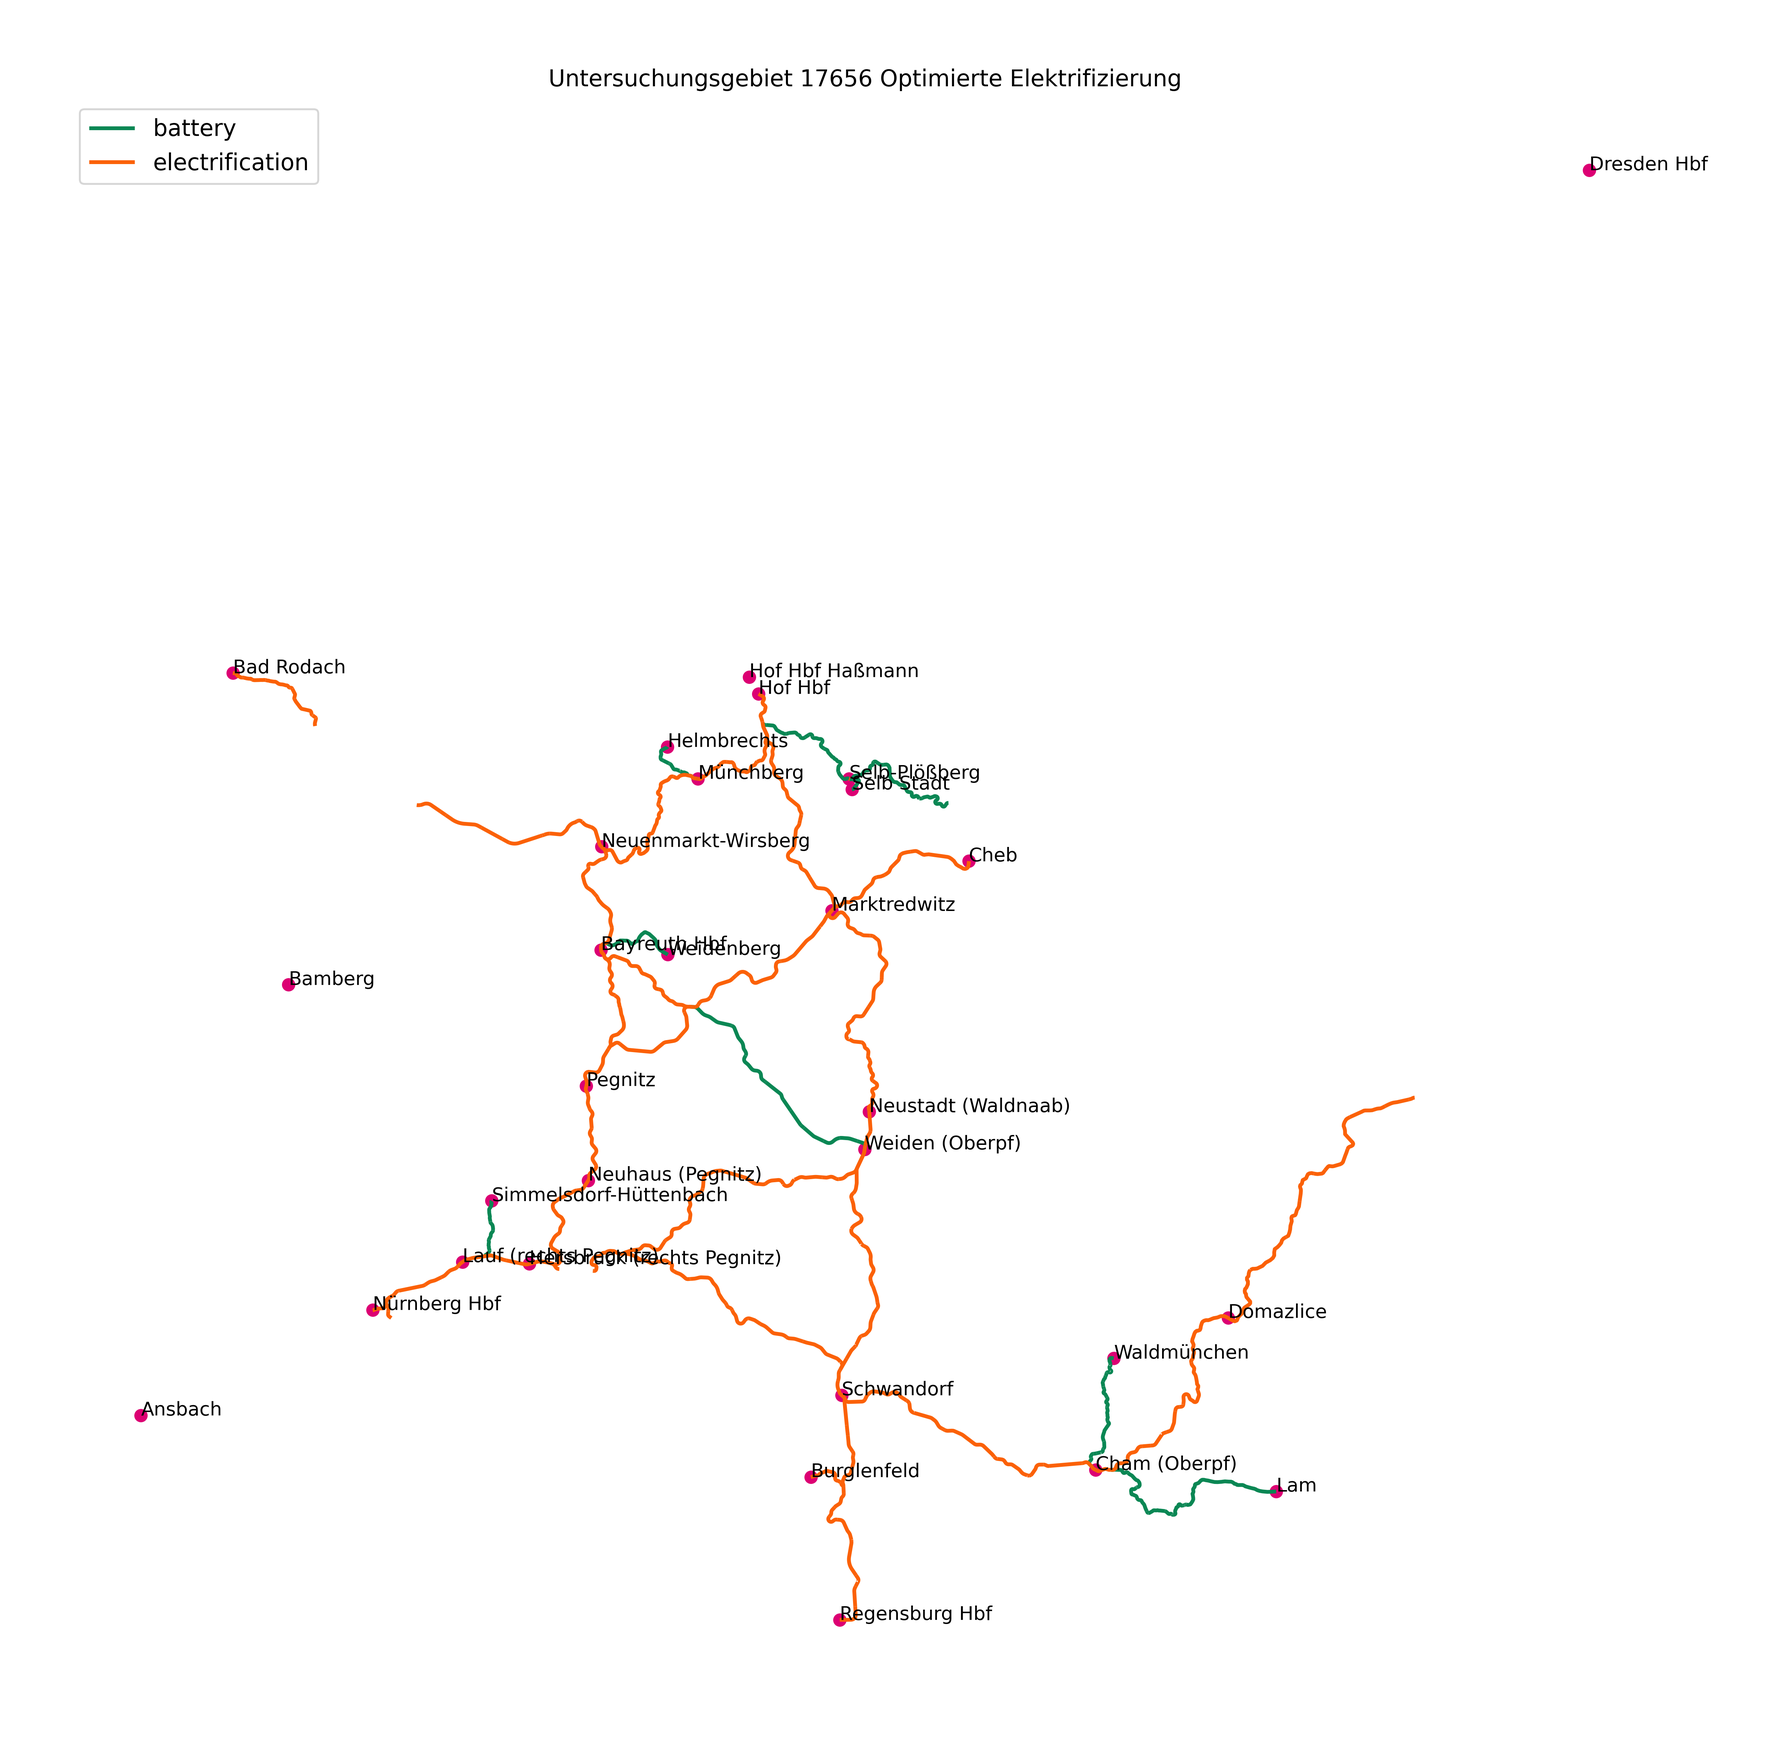
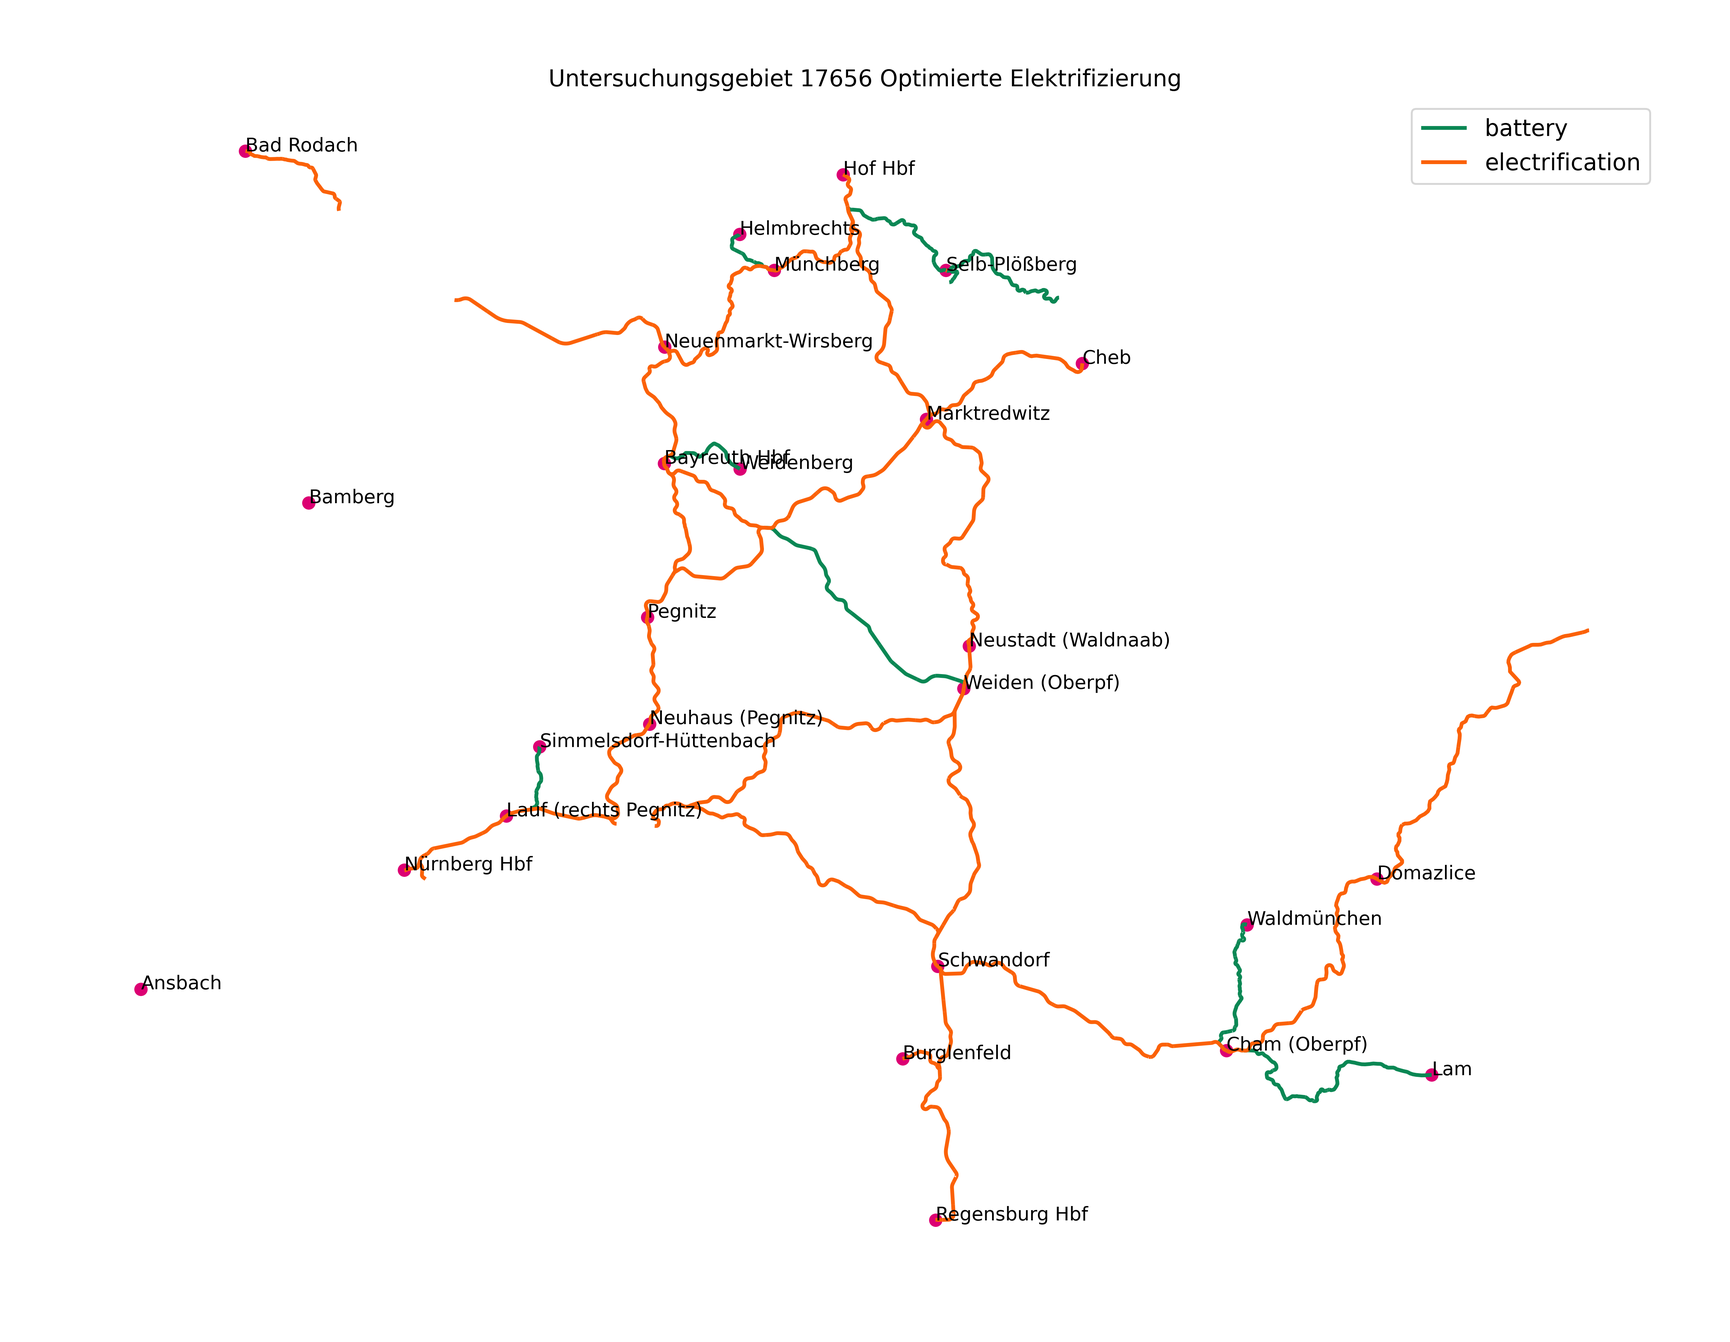
prioritization of master_areas

diff --git a/prosd/graph/block_rw_lines.py b/prosd/graph/block_rw_lines.py
@@ -8,6 +8,7 @@ from prosd import db
 from prosd import parameter
 from prosd.calculation_methods.base import BaseCalculation
 
+
 class BlockRailwayLines:
     def __init__(self, scenario_id, reference_scenario_id):
         self.scenario = MasterScenario.query.get(scenario_id)
@@ -97,6 +98,8 @@ class BlockRailwayLines:
         tgs_ids = [tg.id for tg in tgs]
         self._save_additional_project_info(pc=pc, additional_ignore_ocp=additional_ignore_ocp, traingroups_to_reroute=tgs_ids, following_ocps=following_ocps)
 
+        return pc
+
     def delete_blocking_project(self, pc_id):
         infra_version = version.Version(scenario=self.scenario)
         route = routing.GraphRoute(graph=self.graph, infra_version=infra_version)
@@ -139,6 +142,7 @@ class BlockRailwayLines:
         train_provision_cost = 0
         areas_resilience_scenario = set()
         areas_reference_scenario = set()
+        areas_traingroups_without_sgv = dict()
         for tg in traingroups:
             road_cost += tg.calc_cost_road_transport()
             wagon_cost += tg.wagon_cost_per_day(scenario_id=self.scenario.id)
@@ -148,6 +152,7 @@ class BlockRailwayLines:
             areas_resilience_scenario.update(areas["resilience_scenario"])
             areas_reference_scenario.update(areas["reference_scenario"])
             for area in areas["resilience_scenario"]:
+                areas_traingroups_without_sgv[area.id] = area.traingroups.copy()
                 if tg not in area.traingroups:
                     area.traingroups.append(tg)
 
@@ -226,11 +231,19 @@ class BlockRailwayLines:
 
         cost_road_case = area_cost_reference + road_cost_sum
 
-        if cost_resilience <= cost_road_case:
-            print('Resilience wins')
-            return areas_resilience_scenario, road_cost, operating_cost_traingroups_sgv*disturbance_time_proportion
-        else:
-            return areas_reference_scenario, road_cost, operating_cost_traingroups_sgv*disturbance_time_proportion
+        answer = {}
+
+        answer["road_cost_day"] = road_cost
+        answer["road_coast_operation_duration"] = road_cost_sum
+        answer["operating_cost_sgv_resilience_day"] = traincost_sgv_day
+        answer["operating_cost_sgv_resilience_sum"] = operating_cost_sgv_resilience_sum
+        answer["cost_road_case"] = cost_road_case
+        answer["cost_resilience"] = cost_resilience
+
+        for area in areas["resilience_scenario"]:
+            area.traingroups = areas_traingroups_without_sgv[area.id]
+
+        return answer
 
     def get_areas_for_tg(self, tg):
         """
@@ -252,7 +265,6 @@ class BlockRailwayLines:
         ).all()
 
         return areas
-
 
     def reroute_traingroups(self):
         infra_version = version.Version(scenario=self.scenario)
@@ -291,7 +303,6 @@ class BlockRailwayLines:
                 ignore_ocps=set(blocked_ocps),
                 following_ocps=following_ocps
             )
-
 
     def reroute_traingroups_without_blocked_lines(self):
         infra_version = version.Version(scenario=self.scenario)

diff --git a/prosd/parameter.py b/prosd/parameter.py
@@ -37,10 +37,10 @@ CO2_COST = 670
 FACTOR_PLANNING = 0.18
 MAINTENANCE_FACTOR = 0.014  # electrification
 MAINTENANCE_FACTOR_FILLING_STATION = 0.03
-# COST_OVERHEAD_ONE_TRACK = 1141  # Tausend Euro pro Kilometer
-# COST_OVERHEAD_TWO_TRACKS = 2282  # Tausend Euro pro Kilometer
+COST_OVERHEAD_ONE_TRACK = 1141  # Tausend Euro pro Kilometer
+COST_OVERHEAD_TWO_TRACKS = 2282  # Tausend Euro pro Kilometer
 COST_CATENARY = 737  # Tausend Euro pro Kilometer
-COST_TRACTION_POWER_SUPPLY = 200 # Tausend Euro pro Kilometer
+COST_TRACTION_POWER_SUPPLY = 200  # Tausend Euro pro Kilometer
 COST_CIVIL_ENGINEERING_CONSTRUCTION = 200  # Tausend Euro pro Kilometer
 COST_LAND_AQUISITOIN = 5  # Tausend Euro pro Kilometer
 LIFETIME_CATENARY = 60  # Jahre
@@ -50,7 +50,7 @@ COST_SMALL_CHARGING_STATION = 1200  # Tausend Euro
 ENERGY_COST_ELECTRO_CASUAL = 0.12
 ENERGY_COST_ELECTRO_RENEWABLE = 0.14
 ENERGY_COST_DIESEL = 0.75
-ENERGY_COST_EFUEL = 2.5
+ENERGY_COST_EFUEL = 1
 ENERGY_COST_H2 = 5
 
 ENERGY_CO2_ELECTRO_CASUAL = 414
@@ -79,11 +79,11 @@ DURATION_PLANNING = 5
 DURATION_BUILDING = 5
 DURATION_OPERATION = 30
 
-### cost road transport 40t Lkw
+### cost road transport
 ROAD_ENERGY_ELECTRO_RENWEABLE_COST = 17.5  # €/100km
 ROAD_PERSONAL_COST = 25.18  # €/100km angenommene Reisegeschwindigkeit 80 km/h
-ROAD_CAPITAL_COST = 11.73  # €/100km
-ROAD_MAINTENANCE_COST = 25.72  # €/100km
+ROAD_CAPITAL_COST = 22  # €/100km
+ROAD_MAINTENANCE_COST = 21, 86  # €/100km
 ROAD_CO2_ELECTRO_RENEWABLE_COST = 1.8  # €/100km
 ROAD_PRIMARY_ENERGIE_ELECTRO_RENEWABLE_COST = 7.8  # €/100km
 ROAD_EMISSION_ELECTRO_RENEWABLE_COST = 0.1  # €/100km nur Energiebereitstellung, keine Emissionen durch Radabrieb etc
@@ -92,12 +92,12 @@ PAYLOAD_TRUCK = 25  # t Nutzlast für Lkw. Damit angenommen: Zusätzliches Gewic
 ### wagon cargo rail
 LENGTH_CONTAINER_WAGON = 19.7  # m
 DEAD_WEIGHT_CONTAINER_WAGON = 20  # t
-PAYLOAD_CONTAINER_WAGON = 70 # t
+PAYLOAD_CONTAINER_WAGON = 70  # t
 AVERAGE_SPEED_RESILIENCE = 60  # km/h für Ausweichrouten
 COST_CONTAINER_WAGON = 1.06  # € pro Wagen-h
 COST_TRAIN_DRIVER = 57  # € pro Stunde
 TRAIN_PROVISION_COST_PER_WAGGON = 23  # € pro Wagen
 DISTURBANCE_PERCENTAGE = 0.0463  # proportion of time where infrastructure is disturbed
-#
+
 ##
 CHARGE = 1200  # kWh

diff --git a/scripts/masterarbeit/auswertung/single_master_area/map_optimiesd_electrification_master_area.py b/scripts/masterarbeit/auswertung/single_master_area/map_optimiesd_electrification_master_area.py
@@ -40,7 +40,7 @@ def german_cities(station_id_list):
     return stations_df
 
 
-def plot_optimised_electrification(area, filepath_image_directory, station_list):
+def plot_optimised_electrification(area, filepath_image_directory, station_ignore_list):
     filepath = filepath_image_directory + f"map_{area.id}_optimised_electrification.png"
     linestrings = dict()
 
@@ -50,6 +50,8 @@ def plot_optimised_electrification(area, filepath_image_directory, station_list)
         if tg.category.transport_mode == 'spnv':
             station_list.add(tg.first_ocp.ocp.station.db_kuerzel)
             station_list.add(tg.last_ocp.ocp.station.db_kuerzel)
+
+    station_list = station_list - station_ignore_list
 
     for sub_area in area.sub_master_areas:
         traction = sub_area.cost_effective_traction
@@ -88,7 +90,7 @@ def plot_optimised_electrification(area, filepath_image_directory, station_list)
     for idx, row in german_cities_df.iterrows():
         plt.annotate(text=row["name"], xy=(row.geometry.x, row.geometry.y))
 
-    ax.legend(loc='upper left', prop={'size': 12})
+    ax.legend(loc='upper right', prop={'size': 12})
     ax.set(title=f'Untersuchungsgebiet {area.id} Optimierte Elektrifizierung')
     ax.set_axis_off()
     # plt.show()
@@ -102,27 +104,17 @@ def plot_optimised_electrification(area, filepath_image_directory, station_list)
 
 if __name__ == '__main__':
     filepath_image_directory = '../../../../example_data/report_scenarios/maps_optimised_electrification/'
-    area_id = 17656
+    area_id = 17760
     area = MasterArea.query.get(area_id)
-    station_list = [
-        "MMF",
-        "MSB",
-        "MRO",
-        "NPA",
-        "MLA",
-        "MXS",
-        "MBUH",
-        "MFL",
-        "MWSB",
-        "MEG",
-        "MTS",
-        "MGA",
-        "MTRT",
-        "MNR"
-    ]
+    station_ignore_list = {
+        "NHR",
+        "NHAN",
+        "NSS",
+        "DH"
+    }
 
     plot_optimised_electrification(
         area=area,
         filepath_image_directory=filepath_image_directory,
-        station_list=station_list
+        station_ignore_list=station_ignore_list
     )

diff --git a/scripts/masterarbeit/auswertung/master_area_sgv/plot_maps_report_master_areas.py b/scripts/masterarbeit/auswertung/master_area_sgv/plot_maps_report_master_areas.py
@@ -15,8 +15,8 @@ def get_cmap(n, name='hsv'):
     return plt.cm.get_cmap(name, n)
 
 
-def plot_areas(areas, filepath_image_directory, scenario_name, area_numbers):
-    filepath = filepath_image_directory + "master_areas_sgv.png"
+def plot_areas(areas, filepath_image_directory, title_plot, area_numbers, filename):
+    filepath = filepath_image_directory + filename
     linestrings = dict()
 
     for index_area, area in enumerate(areas):
@@ -60,7 +60,7 @@ def plot_areas(areas, filepath_image_directory, scenario_name, area_numbers):
     german_border_df = german_border()
     german_border_df.plot(ax=ax, color='#BFC0C0', alpha=0.2)
     ax.legend(loc='upper left', prop={'size': 12})
-    ax.set(title=f'Untersuchungsgebiete SGV {scenario_name}')
+    ax.set(title=title_plot)
     ax.set_axis_off()
     # plt.show()
     plt.savefig(
@@ -70,3 +70,22 @@ def plot_areas(areas, filepath_image_directory, scenario_name, area_numbers):
         dpi=400
     )
 
+
+if __name__ == '__main__':
+    scenario_id = 1
+    categories = ['spfv']
+    areas = MasterArea.query.join(traingroups_to_masterareas).join(TimetableTrainGroup).join(TimetableTrain).join(
+        TimetableTrainPart).join(TimetableCategory).filter(
+        MasterArea.scenario_id == scenario_id,
+        MasterArea.superior_master_id == None,
+        TimetableCategory.transport_mode.in_(categories)
+    ).all()
+    filepath_image_directory = '../../../../example_data/report_scenarios/common_maps/'
+    area_numbers = {area.id:index for index, area in enumerate(areas)}
+    plot_areas(
+        areas=areas,
+        filepath_image_directory=filepath_image_directory,
+        title_plot=f'Untersuchungsgebiete SPFV Szenario 1',
+        filename='master_areas_spfv.png',
+        area_numbers=area_numbers
+    )

diff --git a/scripts/masterarbeit/auswertung/master_area_sgv/compare_cost_infra_operating.py b/scripts/masterarbeit/auswertung/master_area_sgv/compare_cost_infra_operating.py
@@ -1,0 +1,25 @@
+from prosd.models import MasterArea, TimetableTrainGroup, TimetableTrain, TimetableTrainPart, TimetableCategory, traingroups_to_masterareas, MasterScenario
+import pandas
+
+scenario_id = 1
+filepath = f'../../../../example_data/report_scenarios/s_{scenario_id}/proportion_operating_to_infrastructure_cost.tex'
+scenario = MasterScenario.query.get(scenario_id)
+categories = ['sgv']
+areas = MasterArea.query.join(traingroups_to_masterareas).join(TimetableTrainGroup).join(TimetableTrain).join(TimetableTrainPart).join(TimetableCategory).filter(
+        MasterArea.scenario_id == scenario.id,
+        MasterArea.superior_master_id == None,
+        TimetableCategory.transport_mode.in_(categories)
+    ).all()
+
+area_numbers = {area.id:index for index, area in enumerate(areas)}
+
+prioritization= {}
+for area in areas:
+    prioritization[area_numbers[area.id]] = {}
+    prioritization[area_numbers[area.id]]["area_number"] = area_numbers[area.id]
+    prioritization[area_numbers[area.id]]["operating_cost"] = area.operating_cost_all_tractions[area.cost_effective_traction]
+    prioritization[area_numbers[area.id]]["infrastructure_cost"] = area.infrastructure_cost_all_tractions[area.cost_effective_traction]
+    prioritization[area_numbers[area.id]]["proportion"] = area.infrastructure_cost_all_tractions[area.cost_effective_traction]/area.operating_cost_all_tractions[area.cost_effective_traction]
+
+df = pandas.DataFrame.from_dict(prioritization)
+df.to_latex(filepath, index=False)

diff --git a/example_data/report_scenarios/s_1/proportion_operating_to_infrastructure_cost.tex b/example_data/report_scenarios/s_1/proportion_operating_to_infrastructure_cost.tex
@@ -1,0 +1,10 @@
+\begin{tabular}{rrrrrrrrrrrrrrrr}
+\toprule
+          0  &           1  &           2  &           3  &            4  &            5  &           6  &            7  &           8  &           9  &          10 &            11 &            12 &            13 &            14 &            15 \\
+\midrule
+    0.000000 & 1.000000e+00 &     2.000000 &     3.000000 &      4.000000 &      5.000000 & 6.000000e+00 &      7.000000 & 8.000000e+00 & 9.000000e+00 &   10.000000 &     11.000000 &     12.000000 &     13.000000 &     14.000000 &     15.000000 \\
+96562.811928 & 1.625608e+06 & 85423.112902 & 36719.748641 & 195207.284784 & 864226.852217 & 3.363270e+06 & 625248.426815 & 3.021728e+06 & 2.271655e+06 & 9864.447286 & 486095.957500 & 287437.991535 & 639276.195959 & 570206.311257 & 430509.984582 \\
+ 5558.632866 & 5.892337e+05 & 17282.089019 &  6587.308488 &  95729.266221 & 150078.263310 & 5.814121e+05 & 199910.741448 & 1.208939e+06 & 2.869760e+05 & 1739.383713 & 103008.441303 &  27020.694369 &  95180.242870 &  15154.987931 &  38328.631953 \\
+    0.057565 & 3.624696e-01 &     0.202312 &     0.179394 &      0.490398 &      0.173656 & 1.728711e-01 &      0.319730 & 4.000822e-01 & 1.263291e-01 &    0.176329 &      0.211910 &      0.094005 &      0.148888 &      0.026578 &      0.089031 \\
+\bottomrule
+\end{tabular}

diff --git a/tests/test_graph/test_block_railwaylines.py b/tests/test_graph/test_block_railwaylines.py
@@ -11,13 +11,13 @@ traingroup_id = "tg_677_x0020_G_x0020_2501_112538"
 class TestBlockRailwayLines(BaseTestCase):
     def test_create_project(self):
         from_ocp = 'RSD'
-        to_ocp = 'RGE'
-        stations_via = []
-        additional_ignore_ocp = ["RGE", "YRRHH", "RRHH", "RPB", "RGN"]
+        to_ocp = 'SKL'
+        stations_via = ["RNBO", "SKL", "SHO"]
+        additional_ignore_ocp = ["RLSM", "RL", "RLUM", "RLUR", "RLI", "RSD", "SKL", "SHO"]
         reroute_train_categories = ['sgv']
-        project_content_name = "Sperrung Schifferstedt – Germersheim"
+        project_content_name = "Sperrung Ludwigshafen – Neunkirchen"
         following_ocps = {
-            "RSD": ["RN", "RLA", "RWND"]
+            "RM": ["FWOR", "FMWG", "FGAL", "SNBR"]
         }
 
         block_rw_lines = BlockRailwayLines(scenario_id=scenario_id, reference_scenario_id=reference_scenario_id)
@@ -45,7 +45,7 @@ class TestBlockRailwayLines(BaseTestCase):
         block_rw_lines.reroute_traingroups_without_blocked_lines()
 
     def test_delete_blocking_project(self):
-        pc_id = 55497
+        pc_id = 72637
         block_rw_lines = BlockRailwayLines(scenario_id=scenario_id, reference_scenario_id=reference_scenario_id)
         block_rw_lines.delete_blocking_project(pc_id=pc_id)
 

diff --git a/scripts/masterarbeit/auswertung/single_master_area/plot_operating_costs.py b/scripts/masterarbeit/auswertung/single_master_area/plot_operating_costs.py
@@ -2,8 +2,8 @@ import matplotlib.pyplot as plt
 import numpy as np
 from prosd.models import MasterArea
 
-master_area_id = 17096
-transport_mode = 'spnv'
+master_area_id = 17656
+transport_mode = 'spfv'
 operating_cost = MasterArea.query.get(master_area_id).get_operating_cost_categories_by_transport_mode
 filepath = f"../../../../example_data/report_scenarios/operating_cost/{master_area_id}_transportmode_{transport_mode}"
 
@@ -33,8 +33,8 @@ for key, value in operating_cost_categorie_values.items():
 
 box = ax.get_position()
 fig.autofmt_xdate(rotation=45)
-ax.set_title(f"Zusammensetzung Betriebskosten für Untersuchungsgebiet {master_area_id}")
-ax.legend(loc="upper center")
+ax.set_title(f"Zusammensetzung Betriebskosten für Untersuchungsgebiet {master_area_id} {transport_mode}")
+ax.legend(loc="upper right")
 ax.set(ylabel='Tsd. € pro Jahr')
 # plt.show()
 plt.savefig(

diff --git a/scripts/masterarbeit/create_scenario.py b/scripts/masterarbeit/create_scenario.py
@@ -2,15 +2,15 @@ from prosd.models import MasterScenario, ProjectContent, TimetableTrainCost, Mas
 from prosd import db
 import sqlalchemy
 
-COPY_AREAS = 42  # set to scenario_id or if not needed to False
-COPY_TRAIN_COST = 42 # set to scenario_id or if not needed to False
-COPY_ROUTING = 42
+COPY_AREAS = 1  # set to scenario_id or if not needed to False
+COPY_TRAIN_COST = 1 # set to scenario_id or if not needed to False
+COPY_ROUTING = 1
 
 scenario = MasterScenario(
-    id = 1,
-    name = 'Referenzszenario',
+    id = 21,
+    name = 'e-Fuel günstiger (1€/l)',
     start_year = 2030,
-    operation_duration = 300
+    operation_duration = 30
 )
 
 project_content_ids = [

diff --git a/tests/test_calculation_methods/test_utility.py b/tests/test_calculation_methods/test_utility.py
@@ -9,7 +9,7 @@ def preparation():
     start_year = parameter.START_YEAR
     duration_operation = parameter.DURATION_OPERATION
 
-    scenario_id = 2
+    scenario_id = 1
     scenario = MasterScenario.query.get(scenario_id)
     scenario_infra = Version(scenario=scenario)
 
@@ -20,7 +20,7 @@ class TestCostSgv(BaseTestCase):
     def test_cost_electrification_sgv(self):
         start_year, duration_operation, scenario_infra = preparation()
 
-        traingroup_id = 'tg_SH_AS_x0020_09903_132927'
+        traingroup_id = 'tg_323_x0020_G_x0020_4002_122463'
         traingroup = TimetableTrainGroup.query.get(traingroup_id)
         print(traingroup.category.transport_mode)
 

diff --git a/scripts/masterarbeit/calc_operating_cost.py b/scripts/masterarbeit/calc_operating_cost.py
@@ -2,9 +2,9 @@ from prosd.models import TimetableTrainCost, TimetableTrainGroup, MasterScenario
 from prosd.manage_db.version import Version
 
 if __name__ == '__main__':
-    tractions = ['battery']
+    tractions = ['efuel']
     for traction in tractions:
-        scenario_id = 40
+        scenario_id = 21
         scenario = MasterScenario.query.get(scenario_id)
         scenario_infra = Version(scenario=scenario)
         scenario.calc_operating_cost_one_traction(traction=traction, infra_version=scenario_infra, overwrite_operating_cost = True)

diff --git a/qgis_scripts/plot_traingroup.py b/qgis_scripts/plot_traingroup.py
@@ -4,7 +4,7 @@ import json
 import os
 # TODO: Add the relevant stadions
 
-traingroup_id = 'tg_677_x0020_G_x0020_2501_112538'
+traingroup_id = 'tg_670_x0020_G_x0020_2512_120752'
 filepath = os.path.abspath(f"/Users/jonas/Library/CloudStorage/OneDrive-Persönlich/TU Berlin neu/Masterarbeit/Code/pros/example_data/railgraph/paths_traingroups/{traingroup_id}.json")
 print(filepath)
 
